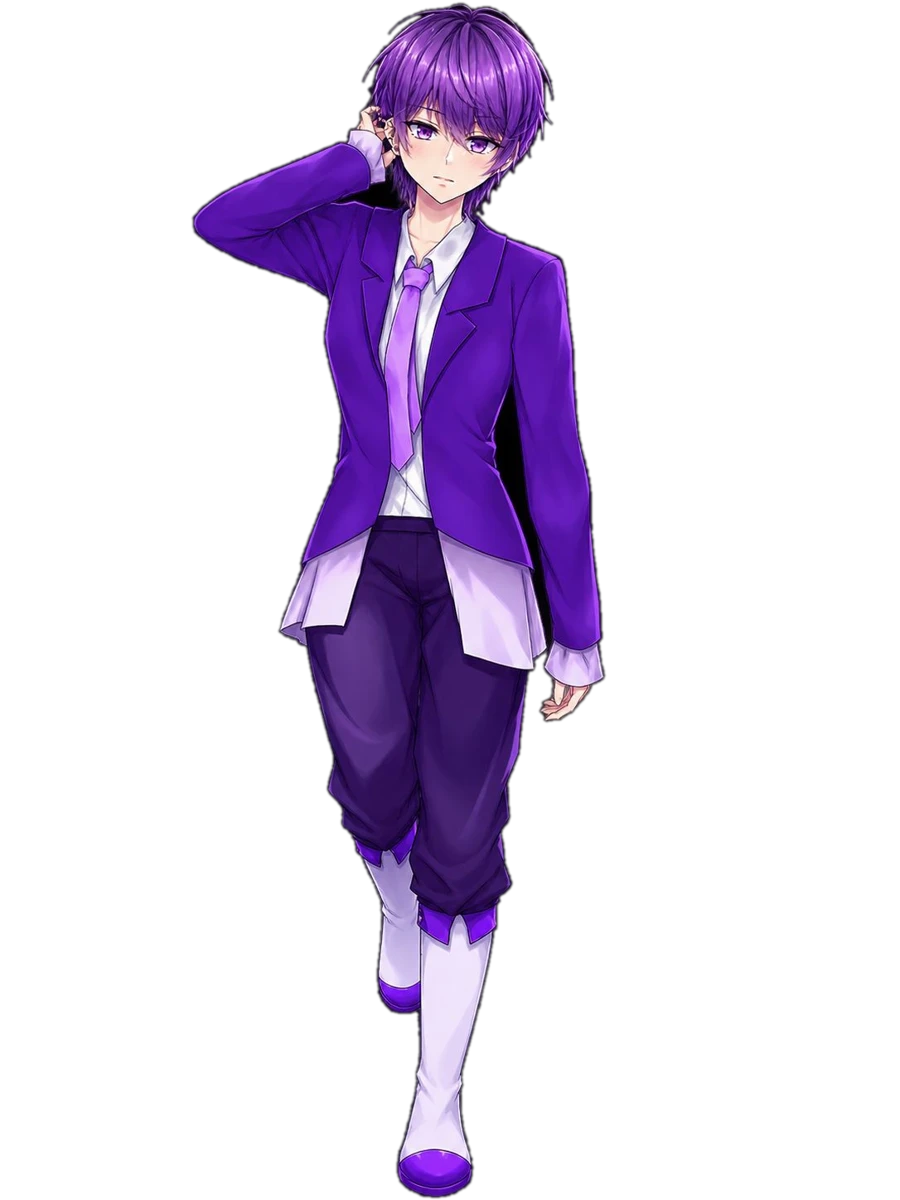
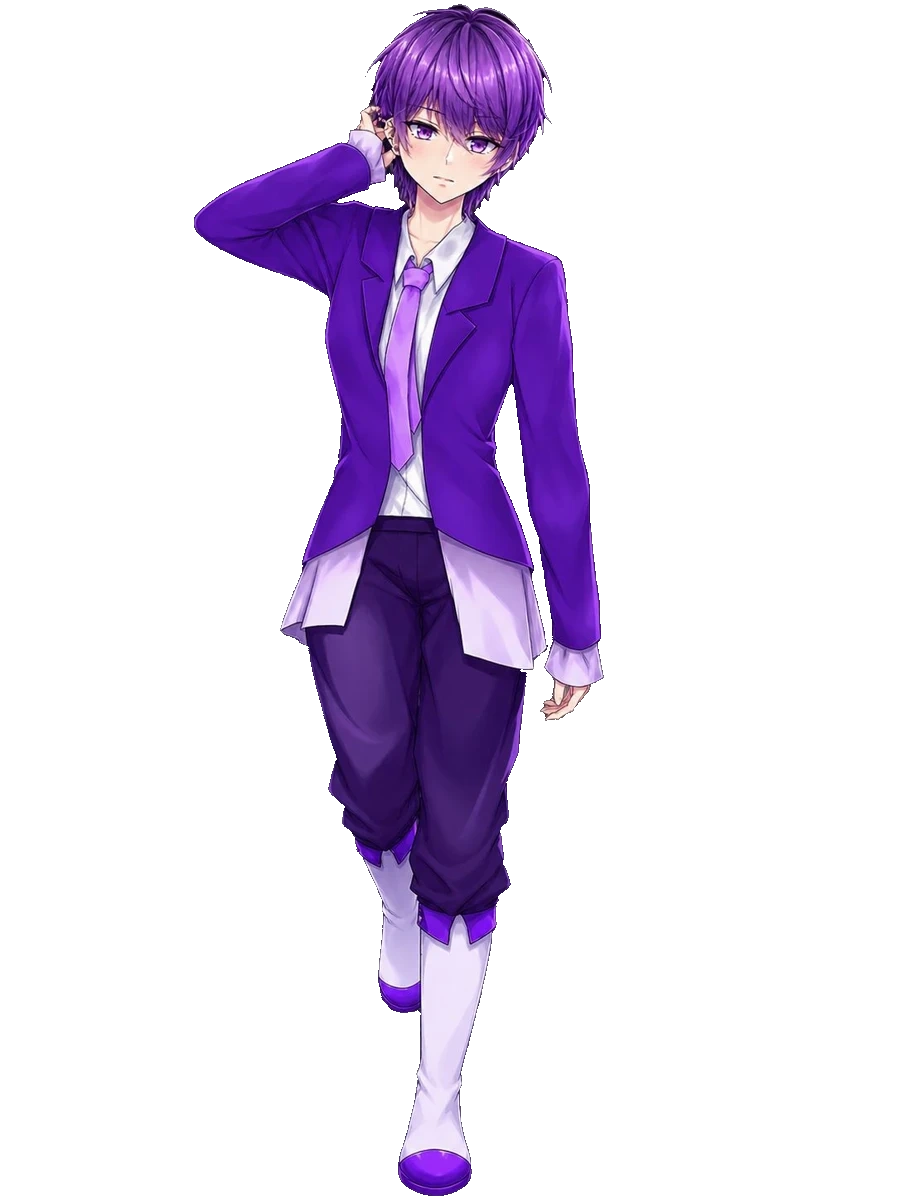
Remove leftover black background patches from character image
Claude-Session: https://claude.ai/code/session_01ErYMe94aNHTgPWDLnthGjx

diff --git a/profile.html b/profile.html
@@ -16,7 +16,7 @@
 <header class="ph" data-wm="PROFILE"><p class="no">01</p><h1>PROFILE</h1><small>プロフィール</small><div class="bar"></div></header>
 <main class="pg reveal">
   <div class="pf">
-    <div class="pf-fig"><i></i><i></i><img src="img/masaki.webp" alt="真咲"></div>
+    <div class="pf-fig"><i></i><i></i><img src="img/masaki.webp?v=2" alt="真咲"></div>
     <div>
       <p class="pf-name">MASAKI</p>
       <h2 class="pf-big">真咲</h2>

diff --git a/index.html b/index.html
@@ -22,7 +22,7 @@
     <p class="roles">VTuber ／ 歌い手</p>
     <p class="lead"></p>
   </div>
-  <div class="h-chara"><div class="gl"><img src="img/masaki.webp" alt="真咲"></div></div>
+  <div class="h-chara"><div class="gl"><img src="img/masaki.webp?v=2" alt="真咲"></div></div>
   <div class="h-cta">
     <a class="cta" id="h-cta" href="#">配信を見にいく</a>
     <div class="scroll">SCROLL</div>
